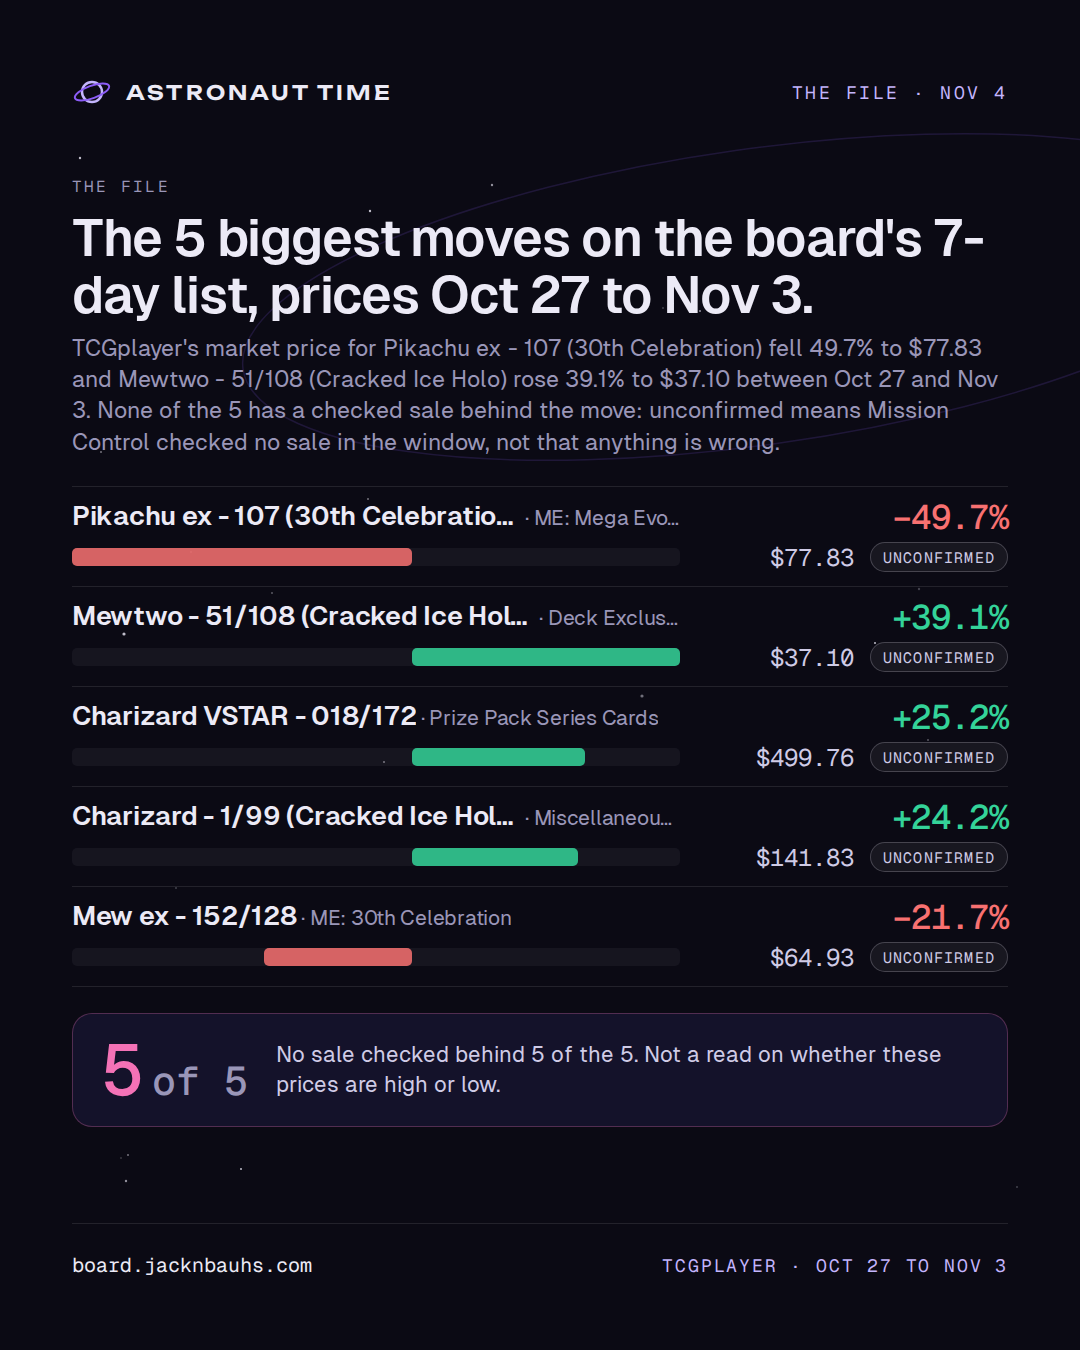
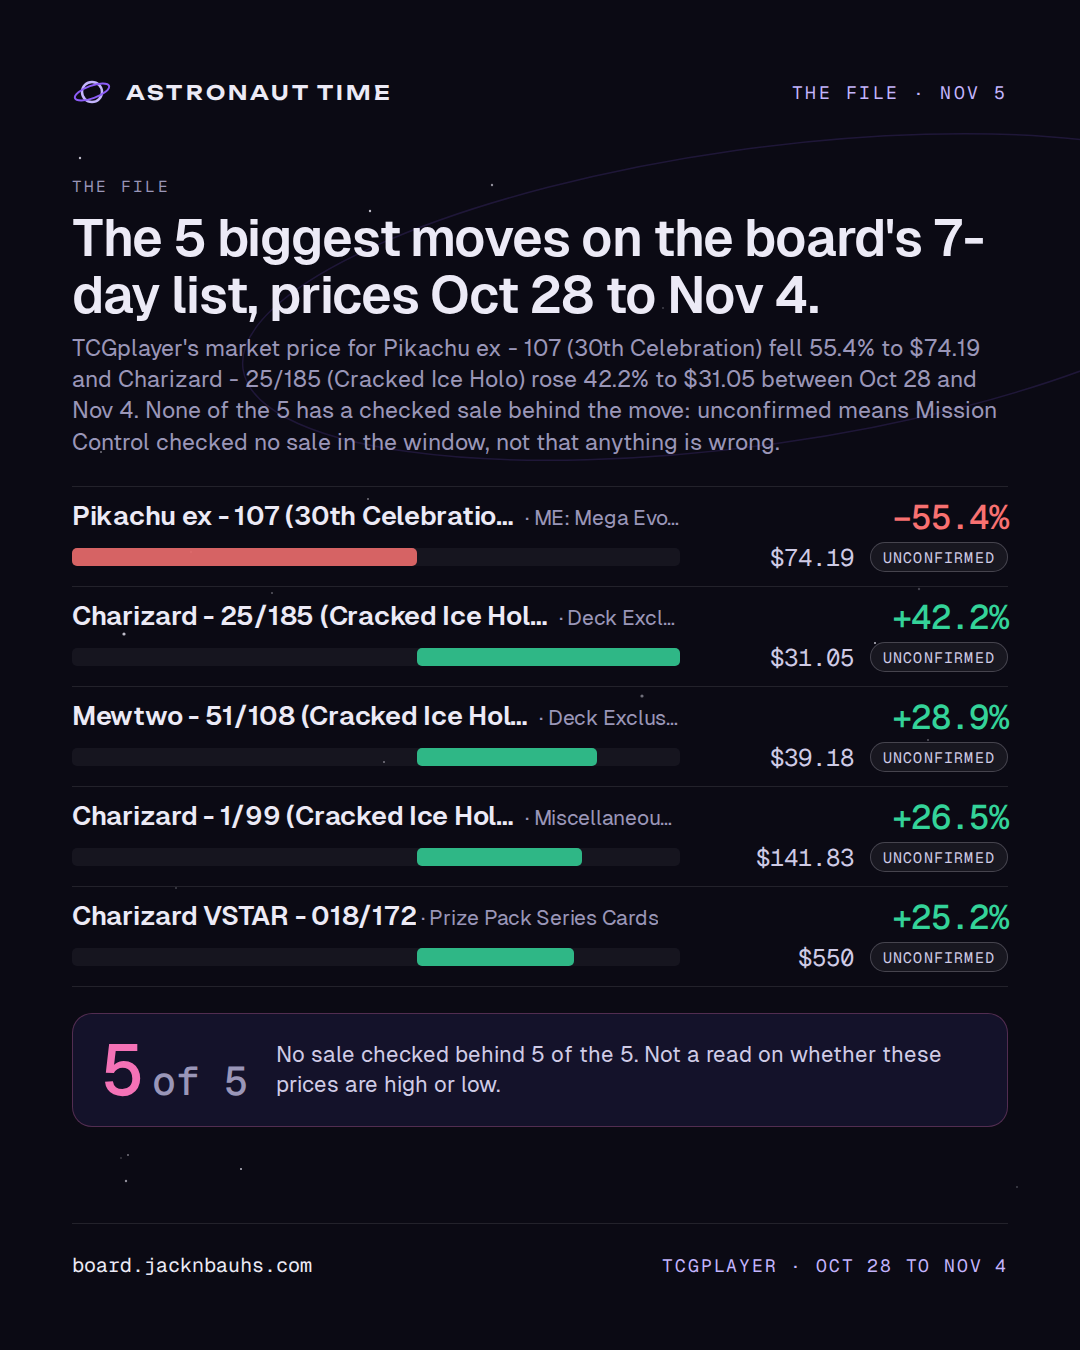
Share kit: render 2026-11-05

diff --git a/card.html b/card.html
@@ -10,14 +10,14 @@
 <meta property="og:url" content="https://board.jacknbauhs.com/card.html">
 <meta property="og:type" content="website">
 <meta property="og:site_name" content="Astronaut Time">
-<meta property="og:image" content="https://board.jacknbauhs.com/assets/og.png?v=2026-11-04">
+<meta property="og:image" content="https://board.jacknbauhs.com/assets/og.png?v=2026-11-05">
 <meta property="og:image:width" content="1200">
 <meta property="og:image:height" content="630">
 <meta property="og:image:alt" content="Mission Control by Astronaut Time: the card market, with the fake sales taken out.">
 <meta name="twitter:card" content="summary_large_image">
 <meta name="twitter:title" content="Card · Mission Control · Astronaut Time">
 <meta name="twitter:description" content="The card market, with the fake sales taken out.">
-<meta name="twitter:image" content="https://board.jacknbauhs.com/assets/og.png?v=2026-11-04">
+<meta name="twitter:image" content="https://board.jacknbauhs.com/assets/og.png?v=2026-11-05">
 <meta name="theme-color" content="#0B0A14">
 <link rel="icon" href="assets/favicon.svg" type="image/svg+xml">
 <link rel="preconnect" href="https://fonts.googleapis.com">

diff --git a/404.html b/404.html
@@ -10,14 +10,14 @@
 <meta property="og:url" content="https://board.jacknbauhs.com/">
 <meta property="og:type" content="website">
 <meta property="og:site_name" content="Astronaut Time">
-<meta property="og:image" content="https://board.jacknbauhs.com/assets/og.png?v=2026-11-04">
+<meta property="og:image" content="https://board.jacknbauhs.com/assets/og.png?v=2026-11-05">
 <meta property="og:image:width" content="1200">
 <meta property="og:image:height" content="630">
 <meta property="og:image:alt" content="Mission Control by Astronaut Time: the card market, with the fake sales taken out.">
 <meta name="twitter:card" content="summary_large_image">
 <meta name="twitter:title" content="Mission Control · Astronaut Time">
 <meta name="twitter:description" content="The card market, with the fake sales taken out.">
-<meta name="twitter:image" content="https://board.jacknbauhs.com/assets/og.png?v=2026-11-04">
+<meta name="twitter:image" content="https://board.jacknbauhs.com/assets/og.png?v=2026-11-05">
 <meta name="theme-color" content="#0B0A14">
 <link rel="icon" href="/assets/favicon.svg" type="image/svg+xml">
 <link rel="preconnect" href="https://fonts.googleapis.com">

diff --git a/index.html b/index.html
@@ -10,14 +10,14 @@
 <meta property="og:url" content="https://board.jacknbauhs.com/">
 <meta property="og:type" content="website">
 <meta property="og:site_name" content="Astronaut Time">
-<meta property="og:image" content="https://board.jacknbauhs.com/assets/og.png?v=2026-11-04">
+<meta property="og:image" content="https://board.jacknbauhs.com/assets/og.png?v=2026-11-05">
 <meta property="og:image:width" content="1200">
 <meta property="og:image:height" content="630">
 <meta property="og:image:alt" content="Mission Control by Astronaut Time: the card market, with the fake sales taken out.">
 <meta name="twitter:card" content="summary_large_image">
 <meta name="twitter:title" content="Mission Control · Astronaut Time">
 <meta name="twitter:description" content="The card market, with the fake sales taken out.">
-<meta name="twitter:image" content="https://board.jacknbauhs.com/assets/og.png?v=2026-11-04">
+<meta name="twitter:image" content="https://board.jacknbauhs.com/assets/og.png?v=2026-11-05">
 <meta name="theme-color" content="#0B0A14">
 <link rel="icon" href="assets/favicon.svg" type="image/svg+xml">
 <link rel="preconnect" href="https://fonts.googleapis.com">

diff --git a/share/out/captions.md b/share/out/captions.md
@@ -1,22 +1,22 @@
-# Captions, board data of 2026-11-04
+# Captions, board data of 2026-11-05
 
 One block per image. Caption first, alt text second. Plain facts, the source and the board link; nothing here is a buy.
 
 ## Before you post
 
-- ✅ Prices are from Nov 3, 2026.
+- ✅ Prices are from Nov 4, 2026.
 - ⚠ All 10 on the 7-day list are unconfirmed: no checked sale behind any. Keep "unconfirmed" in the post and call them price moves, not sales.
 - ⚠ All 10 on the since-yesterday list are unconfirmed: no checked sale behind any. Keep "unconfirmed" in the post and call them price moves, not sales.
 
-## file-2026-11-04-cover.png
+## file-2026-11-05-cover.png
 
-The File, Nov 4: The 5 biggest moves on the board's 7-day list, prices Oct 27 to Nov 3. TCGplayer's market price for Pikachu ex - 107 (30th Celebration) fell 49.7% to $77.83 and Mewtwo - 51/108 (Cracked Ice Holo) rose 39.1% to $37.10 between Oct 27 and Nov 3. None of the 5 has a checked sale behind the move: unconfirmed means Mission Control checked no sale in the window, not that anything is wrong. Pikachu ex - 107 (30th Celebration) (ME: Mega Evolution Promo): TCGplayer market price $77.83 on Nov 3, −49.7% in 7 days, unconfirmed. Mewtwo - 51/108 (Cracked Ice Holo) (Deck Exclusives): TCGplayer market price $37.10 on Nov 3, +39.1% in 7 days, unconfirmed. Charizard VSTAR - 018/172 (Prize Pack Series Cards): TCGplayer market price $499.76 on Nov 1, +25.2% in 7 days, unconfirmed. Charizard - 1/99 (Cracked Ice Holo) (Miscellaneous Cards & Products): TCGplayer market price $141.83 on Nov 3, +24.2% in 7 days, unconfirmed. Mew ex - 152/128 (ME: 30th Celebration): TCGplayer market price $64.93 on Nov 3, −21.7% in 7 days, unconfirmed. 5 of 5 moves on this File with no checked sale, or with checked sales that were flagged. Why now: Mission Control writes this File every morning from the nightly TCGplayer pull, so the board has a fresh File on the mornings no hand-written one is up (Tue, Thu and Sat are its days). What could break it: A market price is TCGplayer's average of recent completed sales of the same card, condition and printing, so one sale can move a thin card. The list's rule keeps out the moves nothing backs, not every thin one. This is not a read on whether these prices are high or low. What we're watching: Whether these moves hold on tomorrow's pull. A card drops off the list by moving less than 5% in a week, more than 60% with no checked sale, without its lowest listing moving the same way, or below $20. The next hand-written File day is Thursday, Nov 5. Unconfirmed: no checked sales speak to the move yet. Source: TCGplayer market prices via tcgcsv.com, the board's 7-day list (prices Oct 27 to Nov 3, 2026, published Nov 4). board.jacknbauhs.com
+The File, Nov 5: The 5 biggest moves on the board's 7-day list, prices Oct 28 to Nov 4. TCGplayer's market price for Pikachu ex - 107 (30th Celebration) fell 55.4% to $74.19 and Charizard - 25/185 (Cracked Ice Holo) rose 42.2% to $31.05 between Oct 28 and Nov 4. None of the 5 has a checked sale behind the move: unconfirmed means Mission Control checked no sale in the window, not that anything is wrong. Pikachu ex - 107 (30th Celebration) (ME: Mega Evolution Promo): TCGplayer market price $74.19 on Nov 4, −55.4% in 7 days, unconfirmed. Charizard - 25/185 (Cracked Ice Holo) (Deck Exclusives): TCGplayer market price $31.05 on Nov 4, +42.2% in 7 days, unconfirmed. Mewtwo - 51/108 (Cracked Ice Holo) (Deck Exclusives): TCGplayer market price $39.18 on Nov 4, +28.9% in 7 days, unconfirmed. Charizard - 1/99 (Cracked Ice Holo) (Miscellaneous Cards & Products): TCGplayer market price $141.83 on Nov 3, +26.5% in 7 days, unconfirmed. Charizard VSTAR - 018/172 (Prize Pack Series Cards): TCGplayer market price $550 on Nov 4, +25.2% in 7 days, unconfirmed. 5 of 5 moves on this File with no checked sale, or with checked sales that were flagged. Why now: Mission Control writes this File every morning from the nightly TCGplayer pull, so the board has a fresh File on the mornings no hand-written one is up (Tue, Thu and Sat are its days). What could break it: A market price is TCGplayer's average of recent completed sales of the same card, condition and printing, so one sale can move a thin card. The list's rule keeps out the moves nothing backs, not every thin one. This is not a read on whether these prices are high or low. What we're watching: Whether these moves hold on tomorrow's pull. A card drops off the list by moving less than 5% in a week, more than 60% with no checked sale, without its lowest listing moving the same way, or below $20. The next hand-written File day is today. Unconfirmed: no checked sales speak to the move yet. Source: TCGplayer market prices via tcgcsv.com, the board's 7-day list (prices Oct 28 to Nov 4, 2026, published Nov 5). board.jacknbauhs.com
 
-Alt: The File on the Astronaut Time board: The 5 biggest moves on the board's 7-day list, prices Oct 27 to Nov 3. The biggest moves on the board's 7-day list, prices Oct 27 to Nov 3: −49.7%, in 7 days · Pikachu ex - 107 (30th Celebration). Five 7-day TCGplayer moves as bars, each with its change, price and label, and the flags tally, 5 of 5.
+Alt: The File on the Astronaut Time board: The 5 biggest moves on the board's 7-day list, prices Oct 28 to Nov 4. The biggest moves on the board's 7-day list, prices Oct 28 to Nov 4: −55.4%, in 7 days · Pikachu ex - 107 (30th Celebration). Five 7-day TCGplayer moves as bars, each with its change, price and label, and the flags tally, 5 of 5.
 
-## flags-2026-11-03-cover.png
+## flags-2026-11-04-cover.png
 
-5 of 5 moves on this File with no checked sale, or with checked sales that were flagged. Mission Control checked no sale behind 5 of the 5 moves on this File. With no checked sales, a move shows only if it's 60% or less over 7 days and TCGplayer's lowest listing moved the same way by at least a quarter as much. Pikachu ex - 107 (30th Celebration), Nov 3: $77.83, −49.7% in 7 days; no sales checked in this window. Mewtwo - 51/108 (Cracked Ice Holo), Nov 3: $37.10, +39.1% in 7 days; no sales checked in this window. Charizard VSTAR - 018/172, Nov 1: $499.76, +25.2% in 7 days; no sales checked in this window. Charizard - 1/99 (Cracked Ice Holo), Nov 3: $141.83, +24.2% in 7 days; no sales checked in this window. Mew ex - 152/128, Nov 3: $64.93, −21.7% in 7 days; no sales checked in this window. Every one is on the board with its label. Prices are TCGplayer's market price after the move. Source: TCGplayer market prices via tcgcsv.com, the board's 7-day list (prices Oct 27 to Nov 3, 2026, published Nov 4). board.jacknbauhs.com
+5 of 5 moves on this File with no checked sale, or with checked sales that were flagged. Mission Control checked no sale behind 5 of the 5 moves on this File. With no checked sales, a move shows only if it's 60% or less over 7 days and TCGplayer's lowest listing moved the same way by at least a quarter as much. Pikachu ex - 107 (30th Celebration), Nov 4: $74.19, −55.4% in 7 days; no sales checked in this window. Charizard - 25/185 (Cracked Ice Holo), Nov 4: $31.05, +42.2% in 7 days; no sales checked in this window. Mewtwo - 51/108 (Cracked Ice Holo), Nov 4: $39.18, +28.9% in 7 days; no sales checked in this window. Charizard - 1/99 (Cracked Ice Holo), Nov 3: $141.83, +26.5% in 7 days; no sales checked in this window. Charizard VSTAR - 018/172, Nov 4: $550, +25.2% in 7 days; no sales checked in this window. Every one is on the board with its label. Prices are TCGplayer's market price after the move. Source: TCGplayer market prices via tcgcsv.com, the board's 7-day list (prices Oct 28 to Nov 4, 2026, published Nov 5). board.jacknbauhs.com
 
 Alt: What we couldn't confirm: 5 of 5 moves on this File with no checked sale, or with checked sales that were flagged, all 5 listed one per line with the day, the card, the change and the TCGplayer market price after it.
 
@@ -46,6 +46,6 @@ Alt: Three calls on the record. Number 001: The 30th Celebration Booster Bundle'
 
 ## moving-2026-W45.png
 
-What's moving on TCGplayer, as of Nov 3, 2026. Ten moves of 5% or more made the list in the last 7 days. Pikachu ex - 107 (30th Celebration) (ME: Mega Evolution Promo · 107 · Holofoil): $77.83, −49.7%, unconfirmed. Mewtwo - 51/108 (Cracked Ice Holo) (Deck Exclusives · 051/108 · Holofoil): $37.10, +39.1%, unconfirmed. Charizard VSTAR - 018/172 (Prize Pack Series Cards · 018/172 · Holofoil): $499.76, +25.2%, unconfirmed. Charizard - 1/99 (Cracked Ice Holo) (Miscellaneous Cards & Products · 001/099 · Holofoil): $141.83, +24.2%, unconfirmed. Mew ex - 152/128 (ME: 30th Celebration · 152/128 · Holofoil): $64.93, −21.7%, unconfirmed. Lugia (ME: 30th Celebration Classic Collection · 149/147 · Holofoil): $150.57, −21.4%, unconfirmed. Latios Prism Star (SM - Celestial Storm · 108/168 · Holofoil): $41.02, −21.1%, unconfirmed. Lugia VSTAR - 139/195 (Prize Pack Series Cards · 139/195 · Holofoil): $26.70, +19.9%, unconfirmed. Unconfirmed: no checked sales; shown only if ≤60%, actively traded, low listing agreed, priced within 2 days. Source: TCGplayer market prices via tcgcsv.com, as of Nov 3, 2026. board.jacknbauhs.com
+What's moving on TCGplayer, as of Nov 4, 2026. Ten moves of 5% or more made the list in the last 7 days. Pikachu ex - 107 (30th Celebration) (ME: Mega Evolution Promo · 107 · Holofoil): $74.19, −55.4%, unconfirmed. Charizard - 25/185 (Cracked Ice Holo) (Deck Exclusives · 025/185 · Holofoil): $31.05, +42.2%, unconfirmed. Mewtwo - 51/108 (Cracked Ice Holo) (Deck Exclusives · 051/108 · Holofoil): $39.18, +28.9%, unconfirmed. Charizard - 1/99 (Cracked Ice Holo) (Miscellaneous Cards & Products · 001/099 · Holofoil): $141.83, +26.5%, unconfirmed. Charizard VSTAR - 018/172 (Prize Pack Series Cards · 018/172 · Holofoil): $550, +25.2%, unconfirmed. Lugia (ME: 30th Celebration Classic Collection · 149/147 · Holofoil): $146.65, −23.5%, unconfirmed. Espeon ex - 108 (30th Celebration) (ME: Mega Evolution Promo · 108 · Holofoil): $129.86, −22.2%, unconfirmed. Rayquaza (Legends Awakened · 14/146 · Holofoil): $386.99, +21.9%, unconfirmed. Unconfirmed: no checked sales; shown only if ≤60%, actively traded, low listing agreed, priced within 2 days. Source: TCGplayer market prices via tcgcsv.com, as of Nov 4, 2026. board.jacknbauhs.com
 
 Alt: What's moving: the 8 biggest of the 10 TCGplayer moves on the list in the last 7 days, each with its market price, its change and the label for what checked sales show.

diff --git a/share/out/site/squarespace.md b/share/out/site/squarespace.md
@@ -2,7 +2,7 @@
 
 ## Four tiles (one Markdown block per column, or all four in one block)
 
-[![The File: The 5 biggest moves on the board's 7-day list, prices Oct 27 to Nov 3. −49.7%: The biggest moves on the board's 7-day list, prices Oct 27 to Nov 3, in 7 days · Pikachu ex - 107 (30th Celebration). No sale checked behind 5 of the 5. Not a read on whether these prices are high or low.](https://board.jacknbauhs.com/share/out/site/tile-file.png)](https://board.jacknbauhs.com)
+[![The File: The 5 biggest moves on the board's 7-day list, prices Oct 28 to Nov 4. −55.4%: The biggest moves on the board's 7-day list, prices Oct 28 to Nov 4, in 7 days · Pikachu ex - 107 (30th Celebration). No sale checked behind 5 of the 5. Not a read on whether these prices are high or low.](https://board.jacknbauhs.com/share/out/site/tile-file.png)](https://board.jacknbauhs.com)
 
 [![What we couldn't confirm: 5 of 5 moves on this File with no checked sale, or with checked sales that were flagged, each labeled with the reason.](https://board.jacknbauhs.com/share/out/site/tile-flags.png)](https://board.jacknbauhs.com)
 
